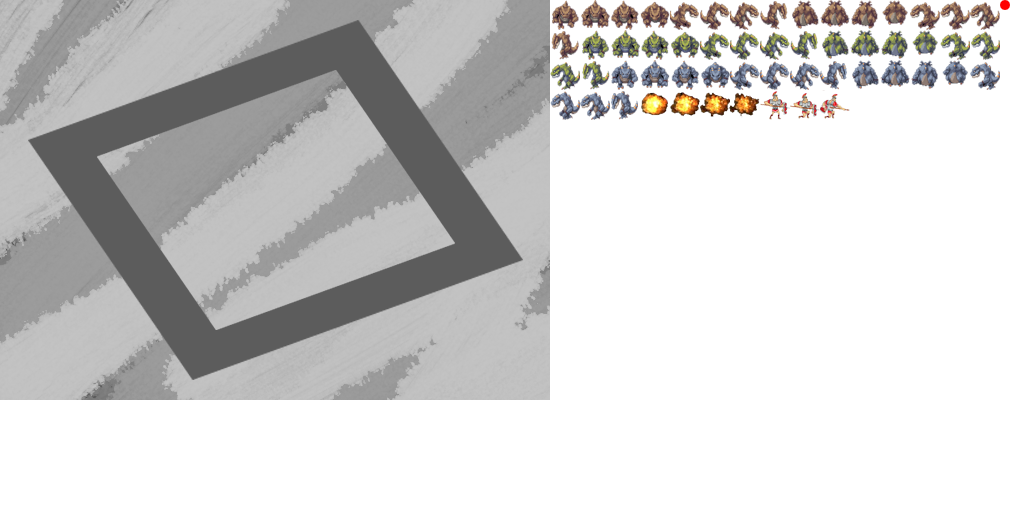
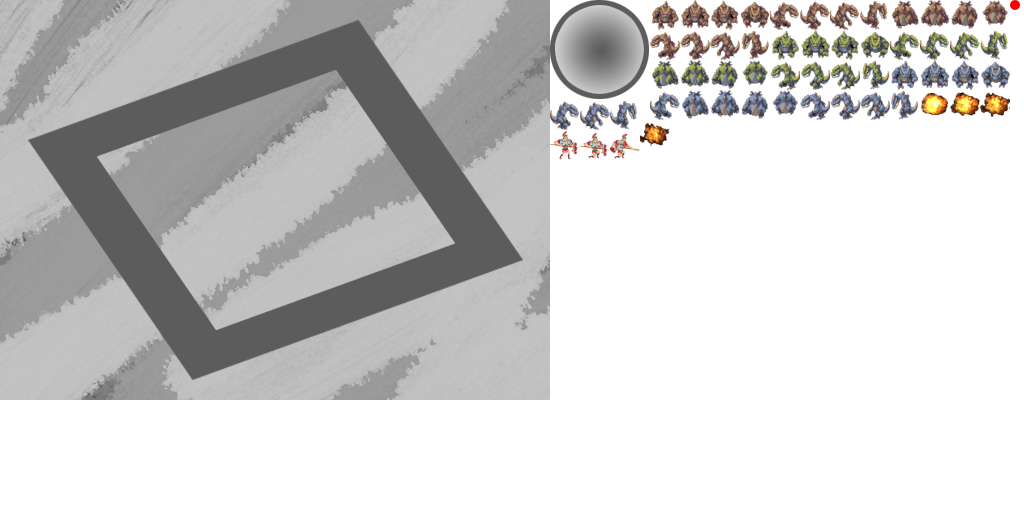
2016-09-12
Unit Move & Range Visible

Changed region(s): [[0.5312, 0.0, 1.0, 0.3125]]

diff --git a/Order.h b/Order.h
@@ -11,13 +11,14 @@
 #define TaG_TIMER 1002
 #define TAG_INTERFACE 1003
 
-#define ZORDER_ATK 0
-#define ZORDER_MONSTER 1
-#define ZORDER_CHARACTER 2
+#define ZORDER_RANGE 1
+#define ZORDER_MONSTER 2
+#define ZORDER_CHARACTER 3
 #define ZORDER_MONSTER_DEATH 4
 #define ZORDER_BULLET 10
 
-#define TAG_MONSTER 2001
-#define TAG_CHARACTER 2002
+#define TAG_RANGE 2001
+#define TAG_MONSTER 2002
+#define TAG_CHARACTER 2003
 
 #endif
